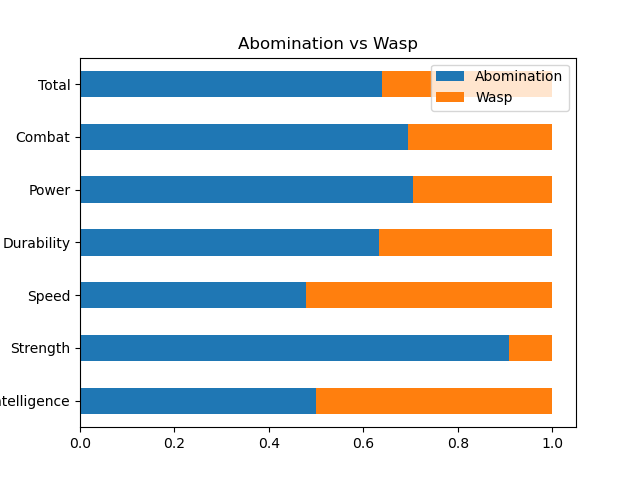
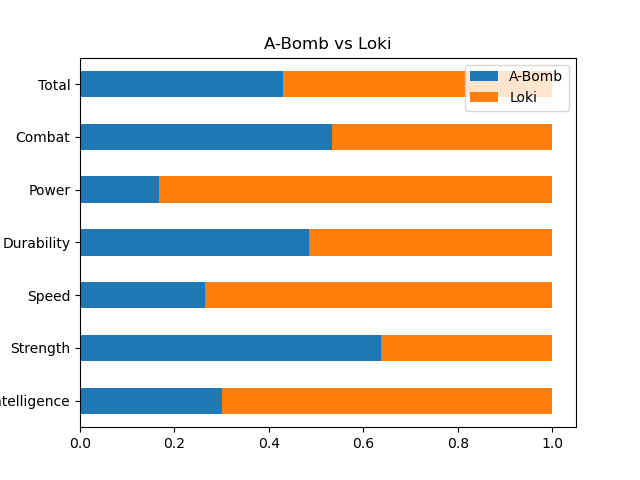
optimized

diff --git a/main.py b/main.py
@@ -61,15 +61,13 @@ def getviz(cnames):
     if os.path.exists("comp.png") :
         os.remove("comp.png")
     p1 = sdf.loc[sdf['Name'] == cnames[0]]
-    p1 = p1[["Name", "Intelligence", "Strength", "Speed", "Durability", "Power", "Combat", "Total"]].copy()
+    p1 = p1.drop(columns=["Name", "Alignment"])
     p2 = sdf.loc[sdf['Name'] == cnames[1]]
-    p2 = p2[["Name", "Intelligence", "Strength", "Speed", "Durability", "Power", "Combat", "Total"]].copy()
-    p3 = pd.DataFrame({cnames[0] : [p1.iat[0,1], p1.iat[0,2], p1.iat[0,3], p1.iat[0,4], p1.iat[0,5], p1.iat[0,6], p1.iat[0,7]],
-                        cnames[1]: [p2.iat[0,1], p2.iat[0,2], p2.iat[0,3], p2.iat[0,4], p2.iat[0,5], p2.iat[0,6], p2.iat[0,7]]},
-                        index=[0, 1, 2, 3, 4, 5, 6])
+    p2 = p2.drop(columns=["Name", "Alignment"])
+    p3 = pd.concat([p1 , p2]).transpose()
     p3 = p3.div(p3.sum(axis=1), axis=0)
-    p3["NOA"] = ["Intelligence", "Strength", "Speed", "Durability", "Power", "Combat", "Total"]
-    plot = p3.plot( x = 'NOA', kind = 'barh', stacked = True, title = cnames[0] + " vs " + cnames[1], mark_right = True)
+    p3.rename(columns = {p1.index[0] : cnames[0], p2.index[0] : cnames[1]}, inplace = True)
+    plot = p3.plot(kind = 'barh', stacked = True, title = cnames[0] + " vs " + cnames[1], mark_right = True)
     fig = plot.get_figure()
     fig.savefig("comp.png")
 
